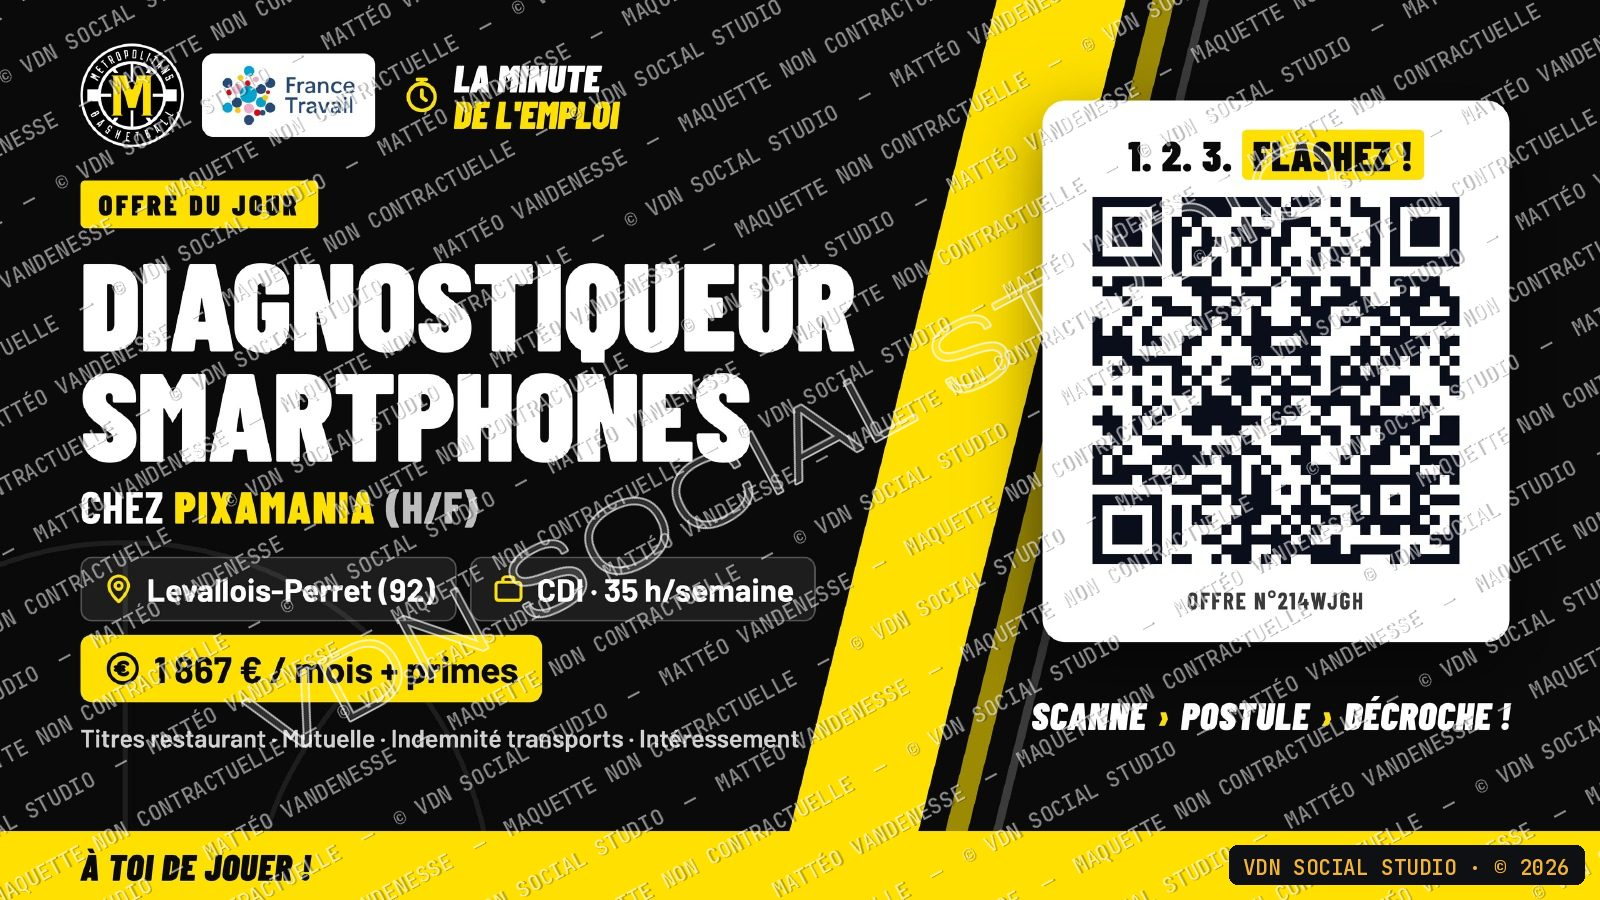
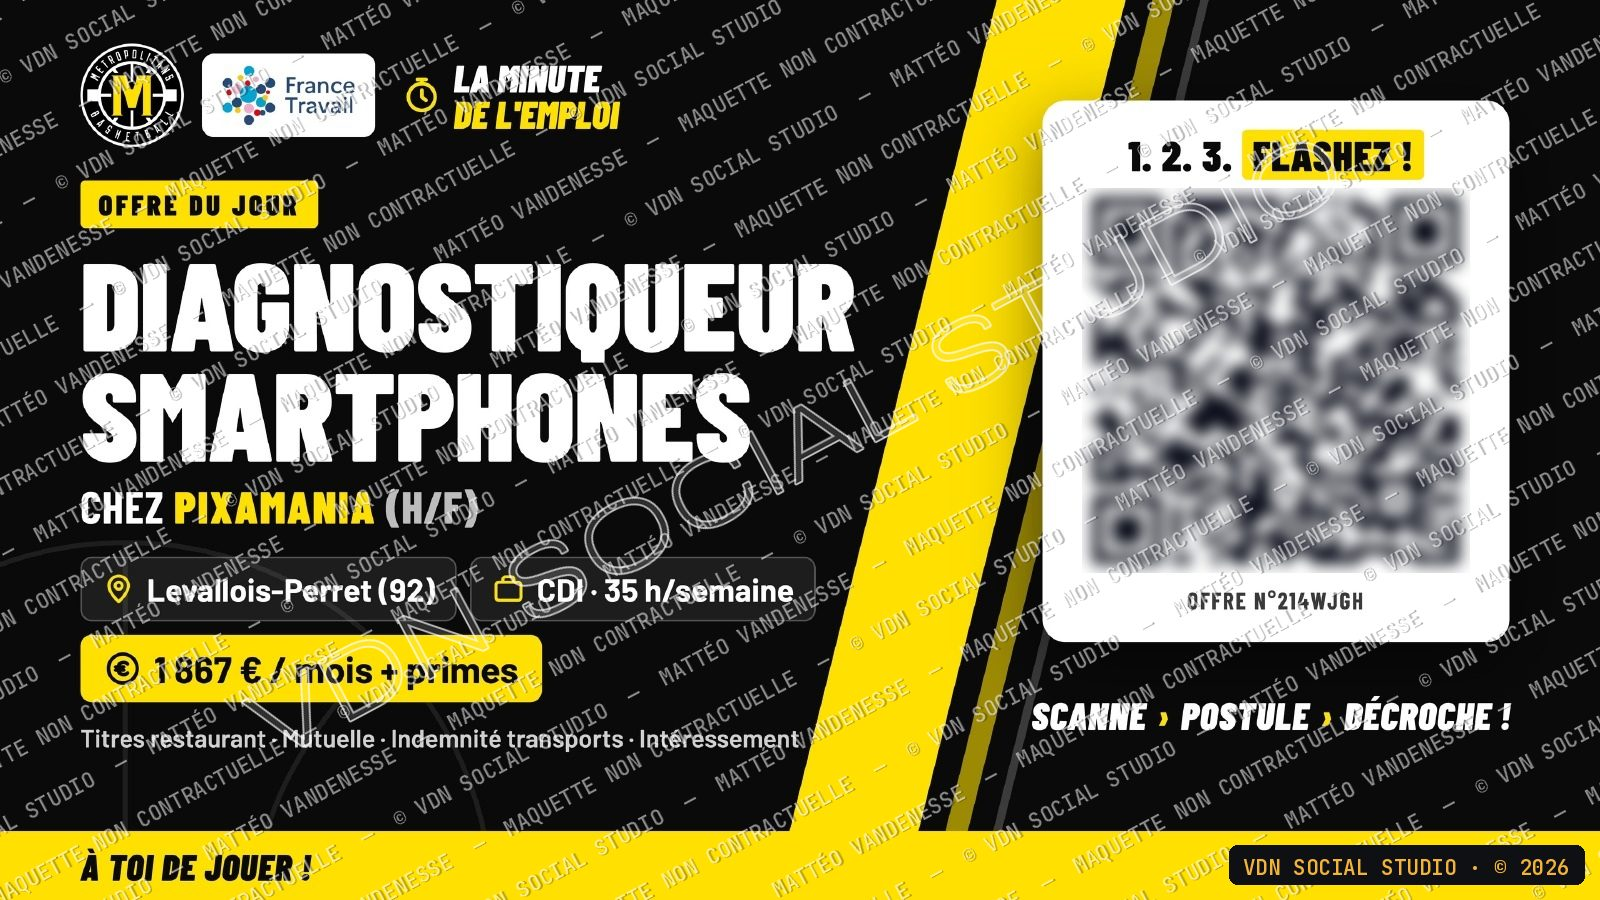
Carrousel Octobre Rose en vrai carrousel, QR code France Travail flouté
Claude-Session: https://claude.ai/code/session_014B31VR3nnzWQqGnb9krKLd

Changed region(s): [[0.6562, 0.1867, 0.9375, 0.6533]]

diff --git a/index.html b/index.html
@@ -321,6 +321,21 @@ footer{display:flex;justify-content:space-between;flex-wrap:wrap;gap:10px;paddin
 .pj .qa p{color:var(--soft);font-size:15px}
 .pjsplit{display:grid;grid-template-columns:minmax(0,320px) minmax(0,1fr);gap:4px;align-items:start;padding:20px 0 0 20px}
 .pjsplit .bd{padding-top:4px}
+.pjcar{position:relative;width:100%;max-width:520px;margin:4px auto 0}
+.pjcar .track{display:flex;overflow-x:auto;scroll-snap-type:x mandatory;scrollbar-width:none;border-radius:12px;border:1px solid var(--line);background:#000;outline-offset:3px}
+.pjcar .track::-webkit-scrollbar{display:none}
+.pjcar figure{flex:0 0 100%;margin:0;scroll-snap-align:start;scroll-snap-stop:always}
+.pjcar img{width:100%;aspect-ratio:4/5;object-fit:cover;display:block;-webkit-user-drag:none;user-select:none;-webkit-touch-callout:none}
+.pjcar .nav{position:absolute;top:50%;transform:translateY(-50%);width:44px;height:44px;border-radius:50%;border:1px solid rgba(255,255,255,.25);background:rgba(14,16,19,.72);color:#fff;font-size:28px;line-height:1;display:grid;place-items:center;cursor:pointer;transition:opacity .2s,background .2s}
+.pjcar .nav:hover{background:var(--accent);color:#0E1013}
+.pjcar .nav[disabled]{opacity:0;pointer-events:none}
+.pjcar .prev{left:10px}.pjcar .next{right:10px}
+.pjcar+.foot{max-width:520px;width:100%;margin:12px auto 0;display:flex;justify-content:space-between;align-items:center;gap:12px}
+.pjcar+.foot .dots{display:flex;gap:4px;flex-wrap:wrap}
+.pjcar+.foot .dot{width:22px;height:22px;padding:0;border:0;background:none;cursor:pointer;display:grid;place-items:center}
+.pjcar+.foot .dot::before{content:"";width:7px;height:7px;border-radius:50%;background:var(--line);transition:background .2s,transform .2s}
+.pjcar+.foot .dot.on::before{background:var(--accent);transform:scale(1.25)}
+.pjcar+.foot+.cap{display:block;max-width:520px;margin:6px auto 0;color:var(--muted);text-align:center}
 .pjgal{display:grid;grid-template-columns:repeat(auto-fit,minmax(min(100%,260px),1fr));gap:16px}
 .pjgal figure.wide{grid-column:1/-1}
 .pjgal figure{margin:0;display:grid;gap:8px}
@@ -543,7 +558,7 @@ footer{display:flex;justify-content:space-between;flex-wrap:wrap;gap:10px;paddin
 const PROJECTS=[
   /* video:"media/xxx.mp4" + poster:"media/xxx.jpg" → la vidéo se lit directement dans la fiche du projet */
   {id:'orcar',size:'',cat:'print digital',c1:'#3A1026',c2:'#FF4FA3',ink:'#FFF0F6',big:'Octobre<br>Rose',kicker:'Carrousel Instagram · Metropolitans',poster:'media/or-carrousel-1.jpg',images:[['media/or-carrousel-1.jpg','Slide 1 : accroche « Il n’y a pas de temps mort contre le cancer »'],['media/or-carrousel-2.jpg','Slide 2 : pourquoi le basket se met au rose chaque octobre'],['media/or-carrousel-3.jpg','Slide 3 : Tiana Mangakahia, elle s’est battue sur et en dehors du terrain'],['media/or-carrousel-4.jpg','Slide 4 : son retour sur le parquet'],['media/or-carrousel-5.jpg','Slide 5 : Roland « Fatty » Taylor, un pionnier dans le combat'],['media/or-carrousel-6.jpg','Slide 6 : le basket utilise sa visibilité pour la cause'],['media/or-carrousel-7.jpg','Slide 7 : solidarité sur et en dehors du terrain'],['media/or-carrousel-8.jpg','Slide 8 : le chiffre à retenir, 61 214 nouveaux cas en 2023'],['media/or-carrousel-9.jpg','Slide 9 : annonce du match Metropolitans – Orléans du 23 octobre']],
-   titre:'Carrousel Octobre Rose',tags:['Carrousel','Instagram','Octobre Rose','Metropolitans'],
+   carousel:true,titre:'Carrousel Octobre Rose',tags:['Carrousel','Instagram','Octobre Rose','Metropolitans'],
    obj:"Sensibiliser la communauté du club au cancer du sein pendant Octobre Rose et annoncer le match aux couleurs roses du 23 octobre.",
    brief:"Un carrousel Instagram de 9 slides : l'accroche « Il n'y a pas de temps mort contre le cancer », pourquoi le basket se met au rose, les histoires de Tiana Mangakahia et de Roland « Fatty » Taylor, le chiffre à retenir (61 214 nouveaux cas en 2023, source INCa) et l'annonce du match Metropolitans – Orléans.",
    pb:"Comment parler d'un sujet grave avec l'énergie du basket, et donner envie de swiper jusqu'à la dernière slide ?"},
@@ -683,7 +698,20 @@ function projectSheet(p){
   const qa=el('div','qa');
   [['Objectif',p.obj],['Brief',p.brief],['Problématique',p.pb]].forEach(([k,v])=>{if(!v)return;const d=el('div');d.appendChild(el('span','mono acc',k));d.appendChild(el('p',null,v));qa.appendChild(d);});
   bd.appendChild(qa);
-  if(p.images){const g=el('div','pjgal');p.images.forEach(([src,alt,wide])=>{const f=el('figure',wide?'wide':null);const im=el('img');im.src=src;im.alt=alt;im.loading='lazy';f.appendChild(im);f.appendChild(el('figcaption','mono',alt.split(' :')[0]));g.appendChild(f);});bd.appendChild(g);}
+  if(p.images&&p.carousel){
+    const c=el('div','pjcar');const tr=el('div','track');tr.tabIndex=0;tr.setAttribute('aria-label',p.titre+', carrousel de '+p.images.length+' slides');
+    p.images.forEach(([src,alt])=>{const f=el('figure');const im=el('img');im.src=src;im.alt=alt;im.loading='lazy';im.draggable=false;f.appendChild(im);tr.appendChild(f);});
+    const pv=el('button','nav prev','‹'),nx=el('button','nav next','›');pv.type=nx.type='button';pv.setAttribute('aria-label','Slide précédente');nx.setAttribute('aria-label','Slide suivante');
+    const ft=el('div','foot'),dots=el('div','dots'),cnt=el('span','mono',''),cap=el('span','mono cap','');
+    const ds=p.images.map((_,i)=>{const d=el('button','dot');d.type='button';d.setAttribute('aria-label','Aller à la slide '+(i+1));d.addEventListener('click',()=>go(i));dots.appendChild(d);return d;});
+    const n=p.images.length;let cur=0;
+    function go(i){i=Math.max(0,Math.min(n-1,i));tr.scrollTo({left:i*tr.clientWidth,behavior:'smooth'});}
+    function upd(){cur=Math.round(tr.scrollLeft/Math.max(1,tr.clientWidth));pv.disabled=cur===0;nx.disabled=cur===n-1;ds.forEach((d,i)=>d.classList.toggle('on',i===cur));cnt.textContent=(cur+1)+' / '+n;cap.textContent=p.images[cur][1].split(' : ').slice(1).join(' : ');}
+    pv.addEventListener('click',()=>go(cur-1));nx.addEventListener('click',()=>go(cur+1));
+    tr.addEventListener('scroll',()=>{clearTimeout(tr._t);tr._t=setTimeout(upd,60);},{passive:true});
+    tr.addEventListener('keydown',e=>{if(e.key==='ArrowRight'){e.preventDefault();go(cur+1);}if(e.key==='ArrowLeft'){e.preventDefault();go(cur-1);}});
+    ft.append(cnt,dots);c.append(tr,pv,nx);bd.append(c,ft,cap);upd();
+  } else if(p.images){const g=el('div','pjgal');p.images.forEach(([src,alt,wide])=>{const f=el('figure',wide?'wide':null);const im=el('img');im.src=src;im.alt=alt;im.loading='lazy';f.appendChild(im);f.appendChild(el('figcaption','mono',alt.split(' :')[0]));g.appendChild(f);});bd.appendChild(g);}
   if(p.res){const r=el('div','res');p.res.forEach(([b,s])=>{const d=el('div');d.appendChild(el('b',null,b));d.appendChild(el('span',null,s));r.appendChild(d);});bd.appendChild(r);}
   if(p.links){const l=el('div','row');p.links.forEach(([t,h])=>{const a=el('a','btn small',t);a.href=h;a.target='_blank';a.rel='noopener';l.appendChild(a);});bd.appendChild(l);}
   if(p.video){
